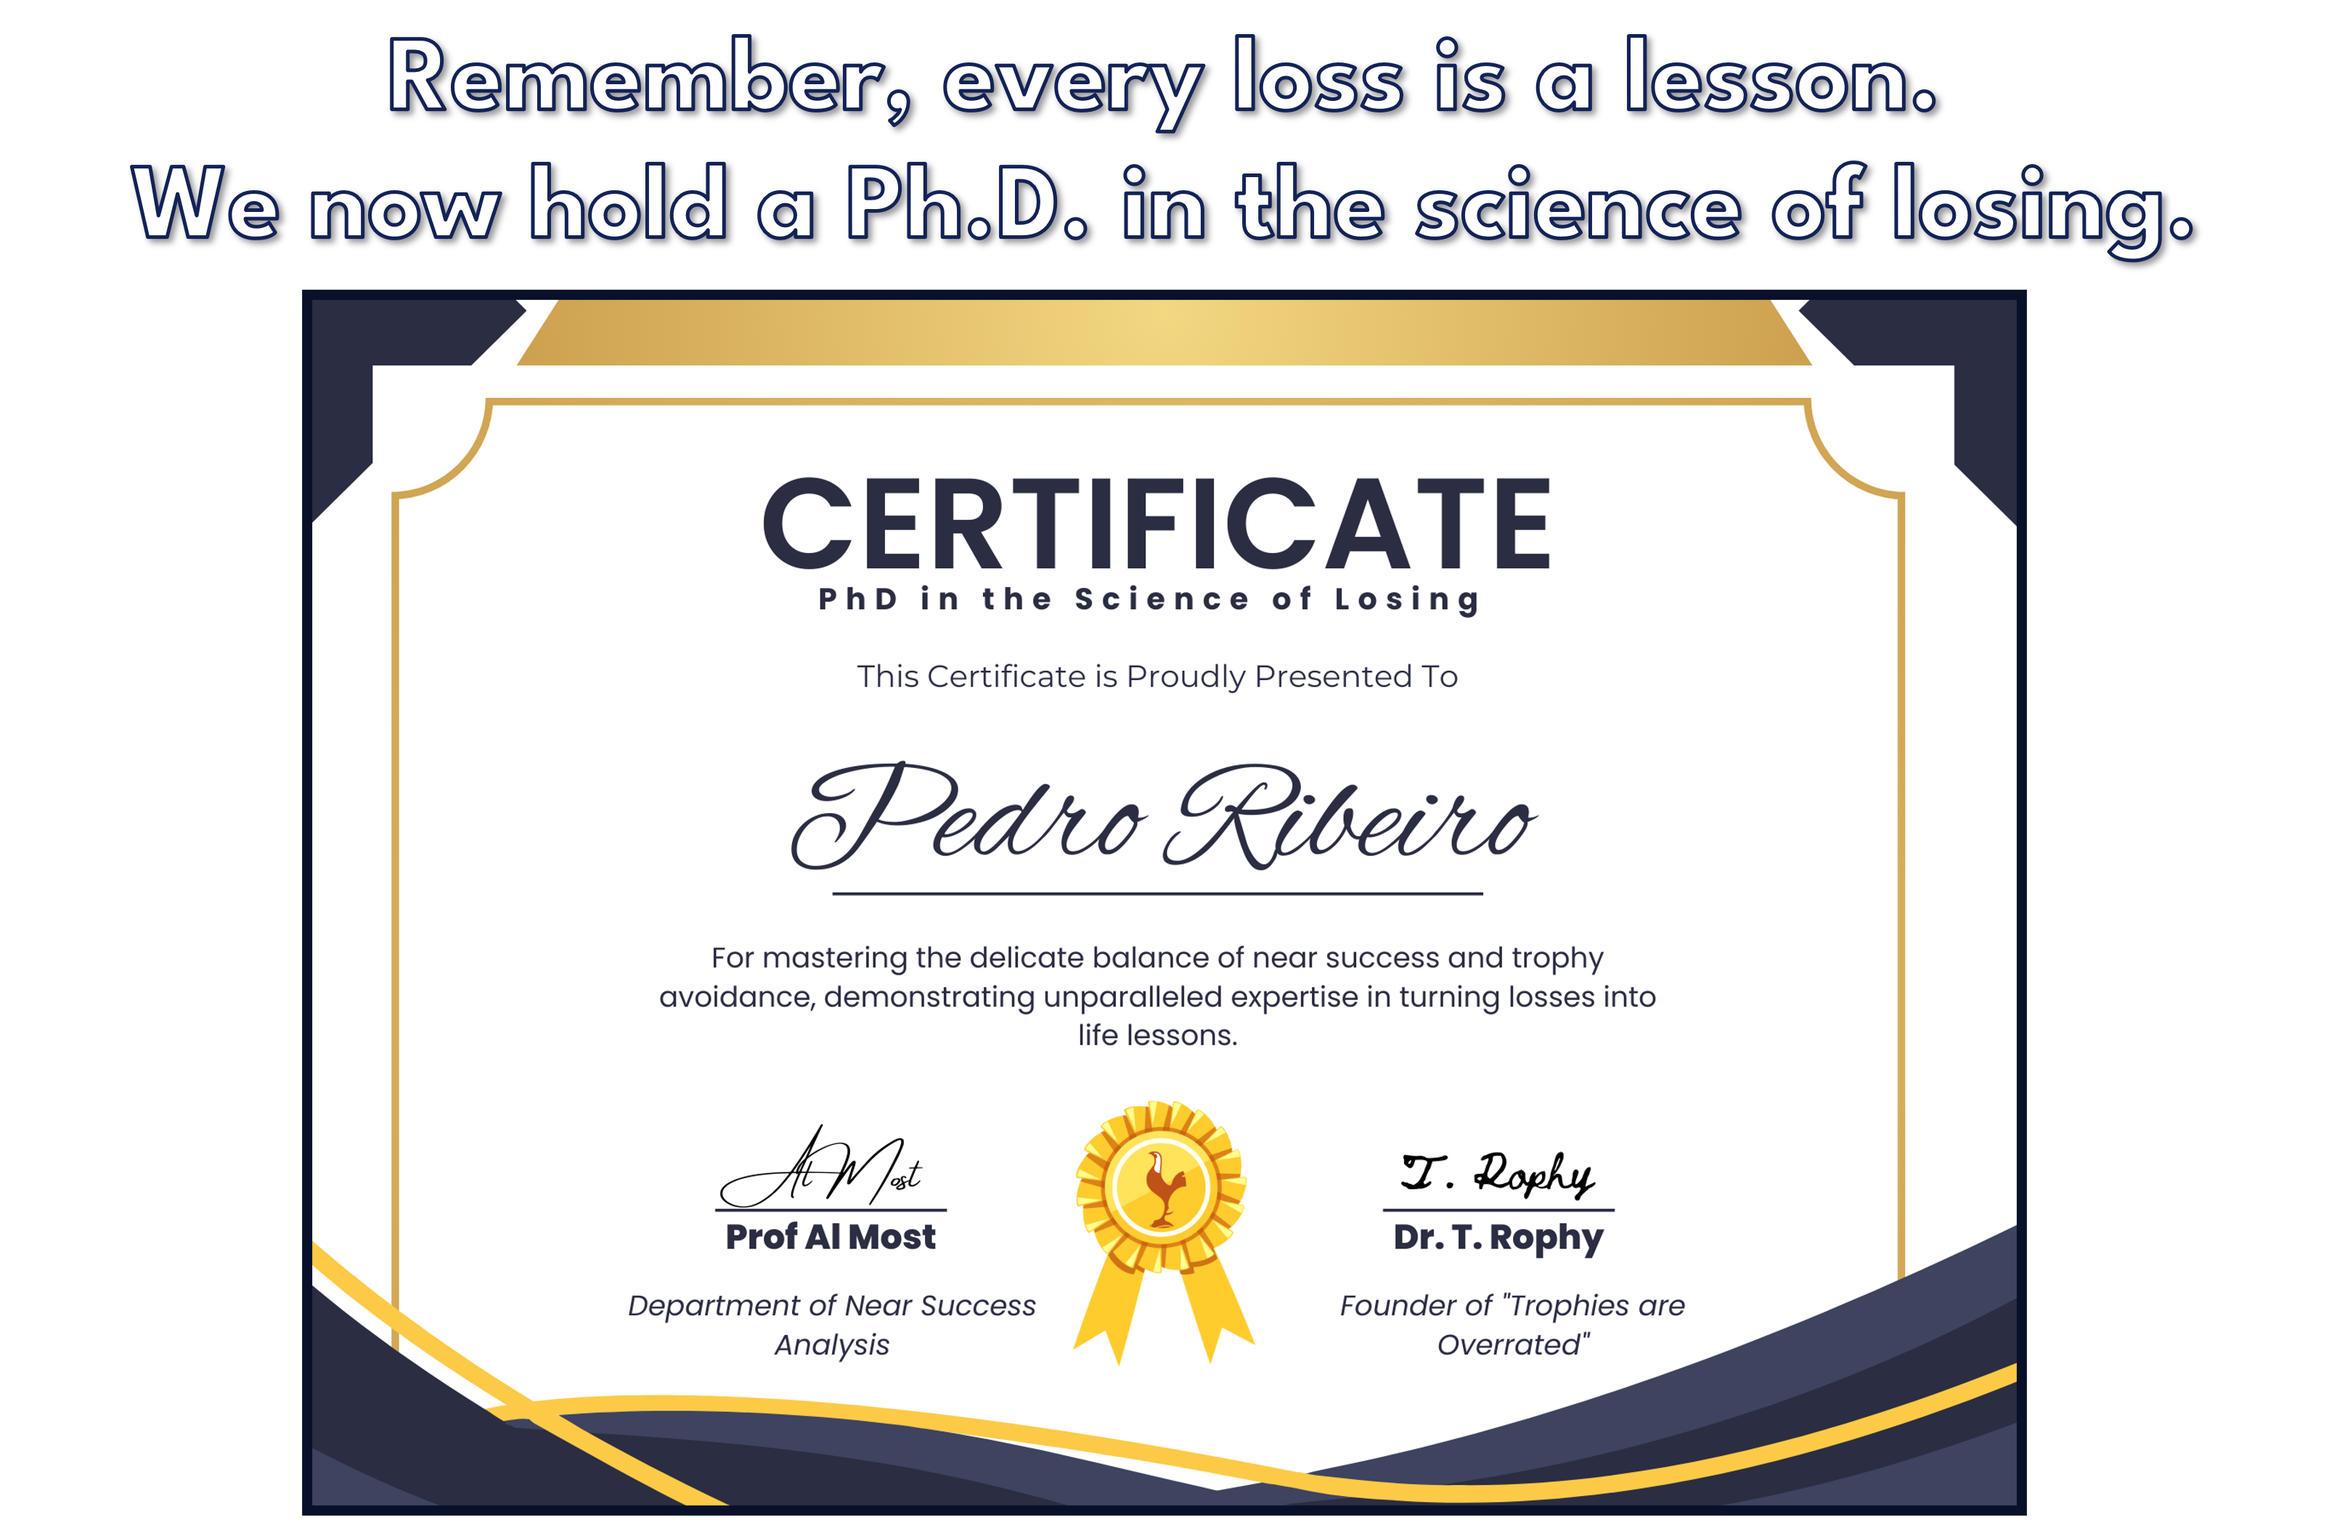
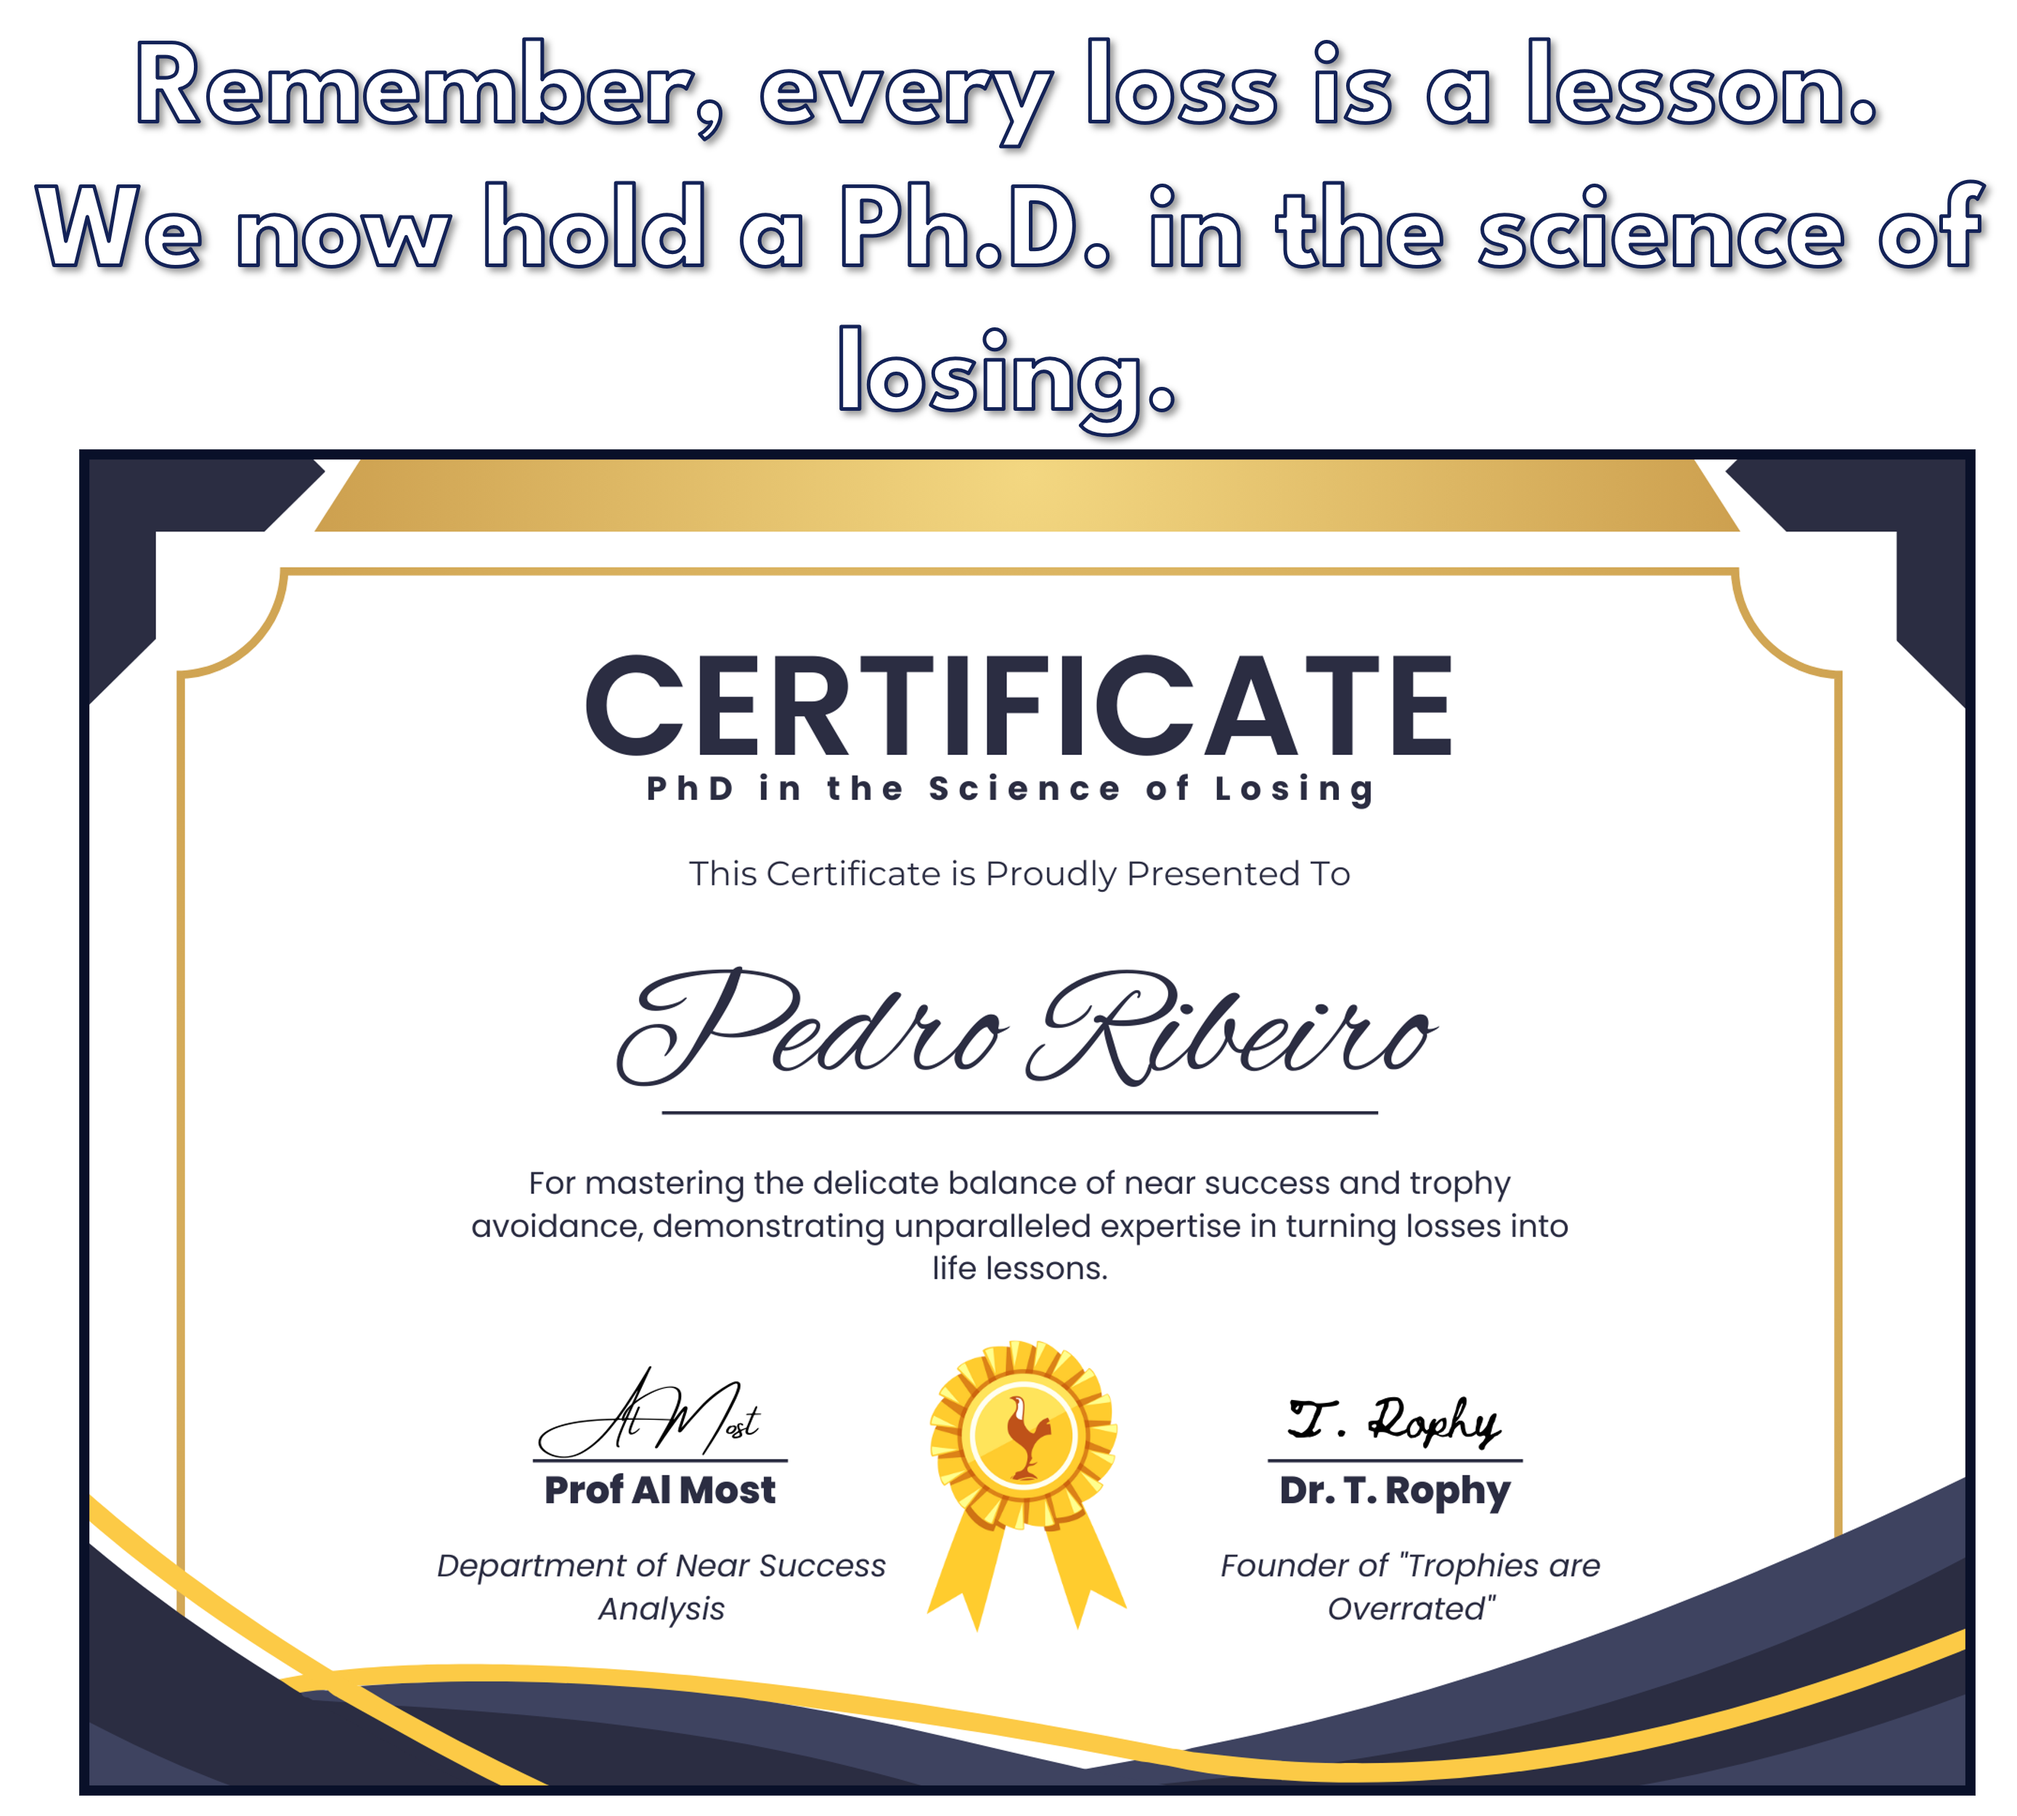
OI

Changed region(s): [[0.0, 0.0, 0.9906, 0.9981]]

diff --git a/style.css b/style.css
@@ -45,7 +45,7 @@ img {
   position: absolute;
   top: 50%;
   left: 50%;
-  transform: translate(-60%, -50%);  /* Center the image by adjusting for its own dimensions */
+  transform: translate(-52%, -50%);  /* Center the image by adjusting for its own dimensions */
   width: auto;  /* Let the width adjust automatically */
   height: 80%;  /* Ensure the height fills the container */
   object-fit: cover; /* Ensure the image covers the container, without distortion */
